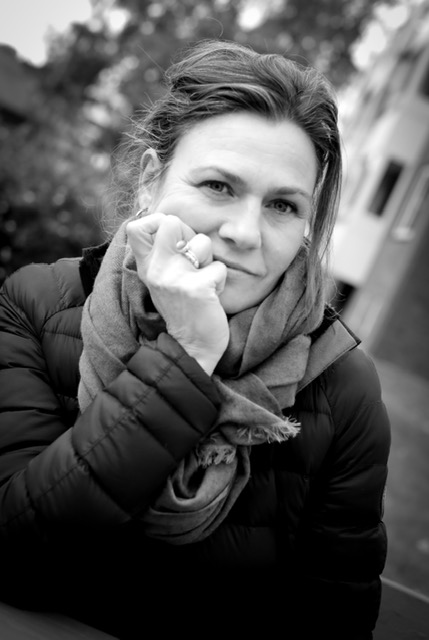
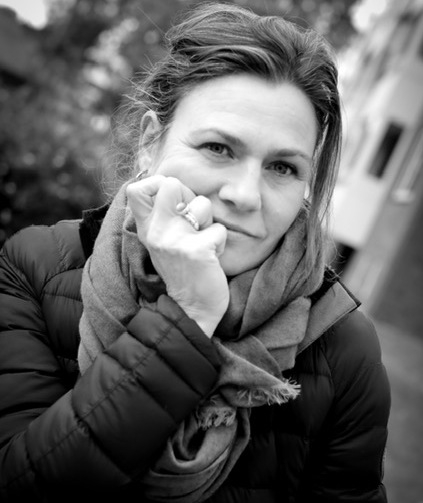
Add further Index About Me Box styling

diff --git a/index.html b/index.html
@@ -46,14 +46,13 @@
     </header>
 
     <div class="about_me_box">
-        <div id="profile_photo_box">
-            <img src="/assets/images/profile_photo.jpg" id="profile_photo" alt="Photo of Stine Poulsen">
-        </div>
+        <img src="/assets/images/profile_photo.jpg" id="profile_photo" alt="Photo of Stine Poulsen">
         <div id="welcome_about_me">
             <h1>Stine Poulsen</h1>
+            <br>
             <ul>
                 <li>Certified Psychotherapist</li>
-                <li>Therapy sessios for Individuals & Couples</li>
+                <li>Therapy sessions for Individuals & Couples</li>
                 <li>Clinic in Copenhagen (near Kongens Nytorv) & in Jægerspris</li>
                 <li>Contact & Book Sessions via Telephone<br>
                     <strong>51 55 92 22</strong><br>

diff --git a/assets/css/style.css b/assets/css/style.css
@@ -19,6 +19,7 @@ body {
 
 h1 {
     font-family: Oswald, sans-serif;
+    font-size: 26px;
     text-transform: uppercase;
     letter-spacing: 1px;
     color: #252525
@@ -82,20 +83,30 @@ header {
     max-width: 900px;
     margin: auto;
     margin-top: 5vh;
-    height: 300px;
+    height: 320px;
     background-color: #ffffff;
 }
 
-#profile_photo_box {
-    width: 33%;
-    float: left;
-}
-
 #profile_photo {
-    width: 100%;
+    display: inline-block;
+    vertical-align: top;
+    height: 100%;
+    margin-right: 20px;
+    @media (max-width: 640px) {
+        display: none;
+    }
 }
-
-
 
 #welcome_about_me {
+    display: inline-block;
+    width: 60%;
+    @media (max-width: 640px) {
+        width: 100%;
+    }
 }
+
+#welcome_about_me li{
+    list-style: square;
+    line-height: 175%;
+}
+
